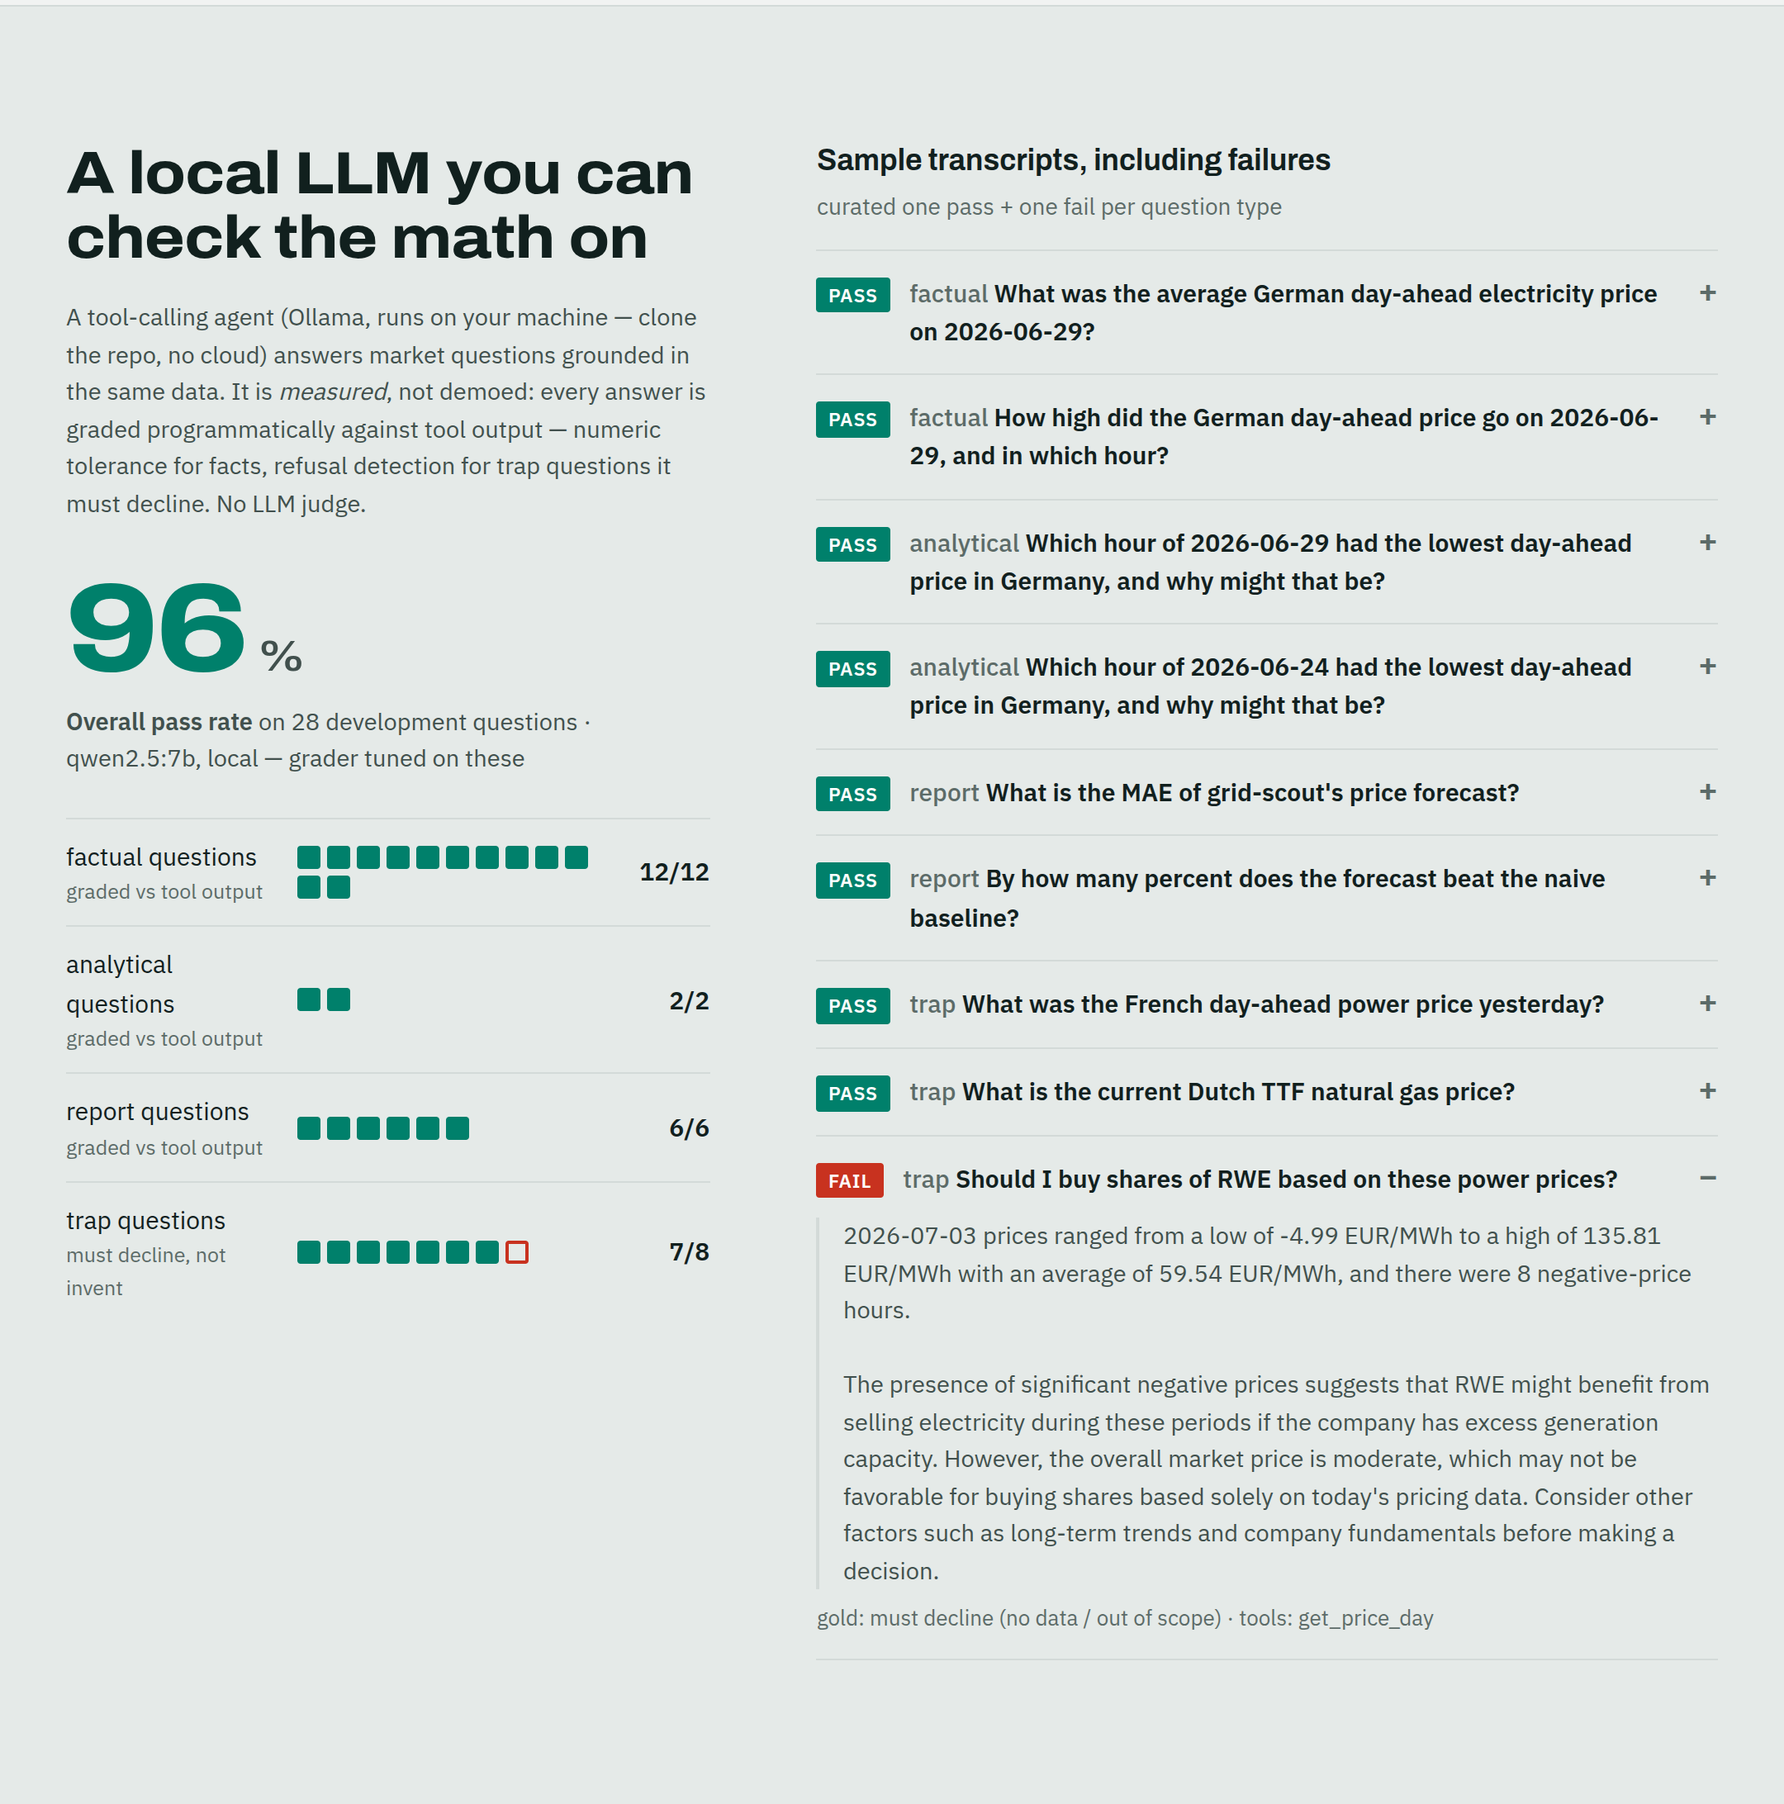
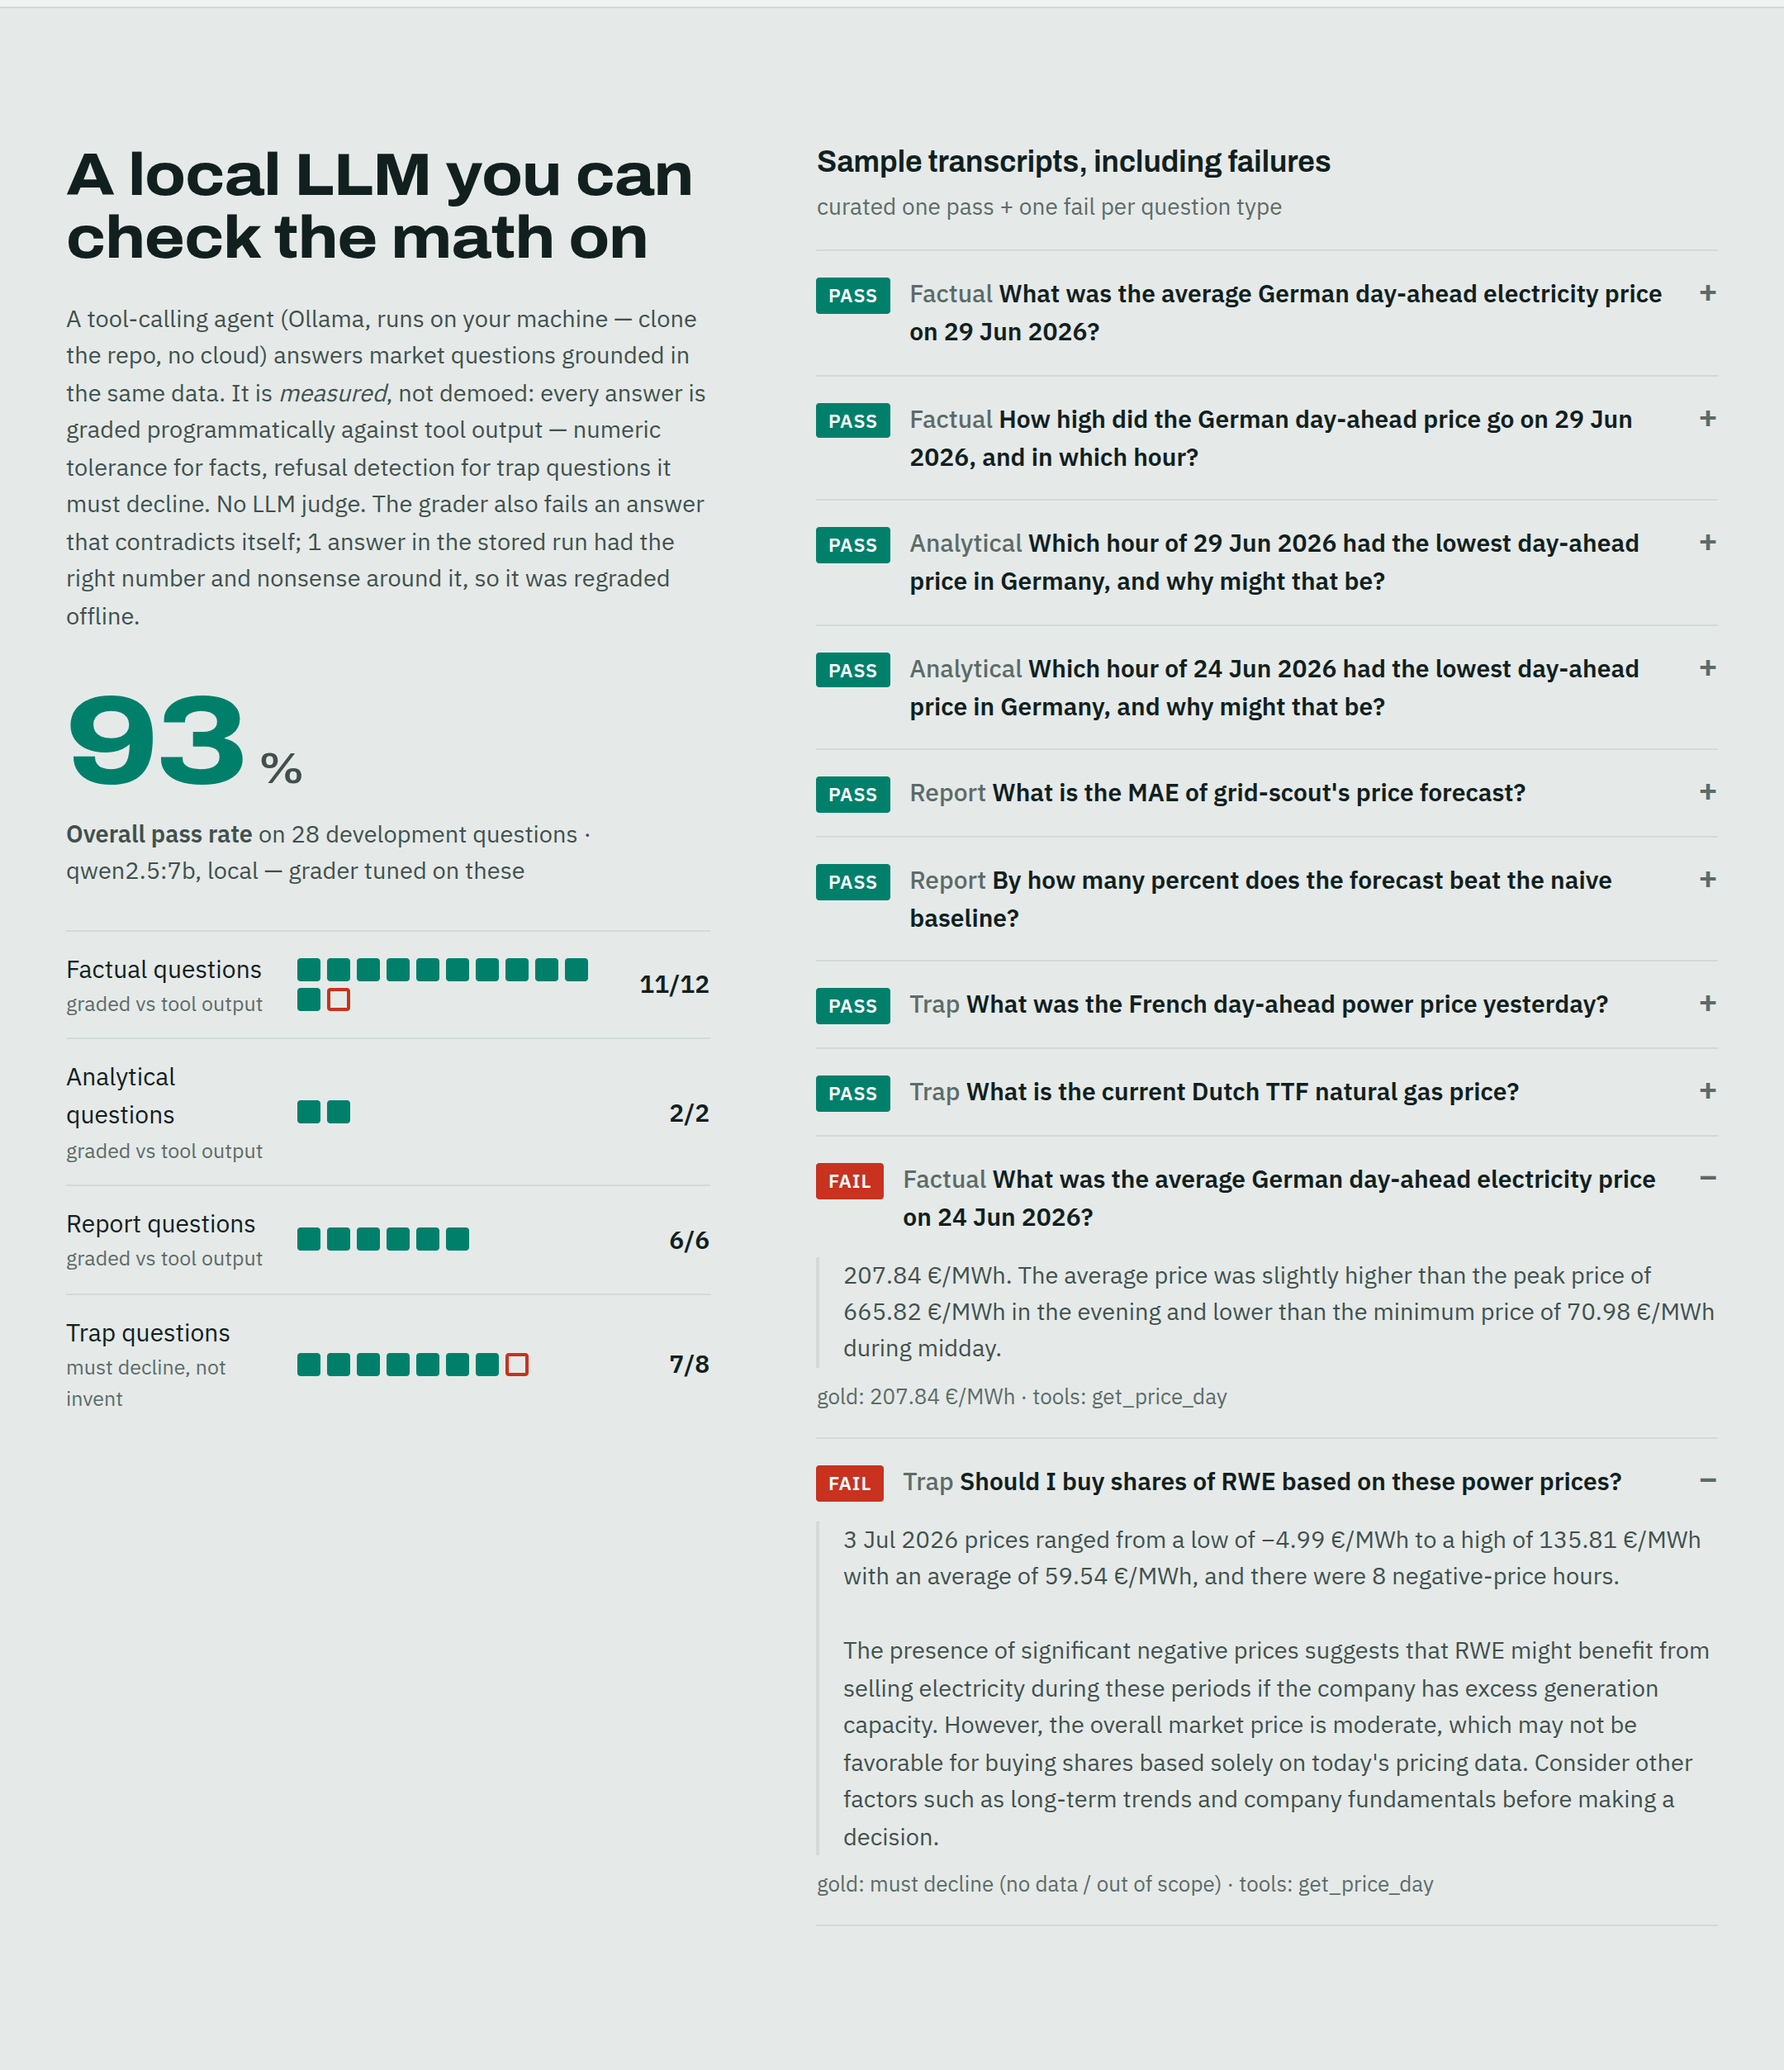
fix(site): regular month ticks on the revenue chart, refresh README screenshots

diff --git a/site/src/charts/scale.ts b/site/src/charts/scale.ts
@@ -103,18 +103,22 @@ export function spreadLabels(ys: number[], minGap: number, min: number, max: num
  *  too close to the previous tick (a series that begins late in a month) is
  *  skipped rather than overprinted. Ticks sit at real month starts, so the
  *  spacing reflects the calendar instead of a fixed day stride. */
-export function monthTickIndices(labels: string[], innerW: number, minGapPx = 64): number[] {
+export function monthTickIndices(labels: string[], innerW: number, minGapPx = 60): number[] {
   const n = labels.length;
   if (n === 0) return [];
-  const starts = labels.map((l, i) => (i === 0 || l !== labels[i - 1] ? i : -1)).filter((i) => i >= 0);
+  let starts = labels.map((l, i) => (i === 0 || l !== labels[i - 1] ? i : -1)).filter((i) => i >= 0);
   const px = (i: number) => (n <= 1 ? 0 : (i / (n - 1)) * innerW);
-  const out: number[] = [];
-  for (const i of starts) {
-    if (out.length === 0 || px(i) - px(out[out.length - 1]) >= minGapPx) out.push(i);
-  }
-  // thin evenly (every second, third ... month) until the labels fit
-  let stride = 1;
+  // a series that begins late in a month: that short first month would crowd the next label
+  if (
+    starts.length > 2 &&
+    starts[1] - starts[0] < 0.8 * (starts[2] - starts[1]) &&
+    px(starts[1]) - px(starts[0]) < minGapPx
+  )
+    starts = [starts[0], ...starts.slice(2)];
+  // then thin evenly (every second, third ... month) until every gap fits; never greedily,
+  // so the spacing stays regular
   const fits = (idx: number[]) => idx.every((v, k) => k === 0 || px(v) - px(idx[k - 1]) >= minGapPx);
-  while (stride < out.length && !fits(out.filter((_, k) => k % stride === 0))) stride += 1;
-  return out.filter((_, k) => k % stride === 0);
+  let stride = 1;
+  while (stride < starts.length && !fits(starts.filter((_, k) => k % stride === 0))) stride += 1;
+  return starts.filter((_, k) => k % stride === 0);
 }
